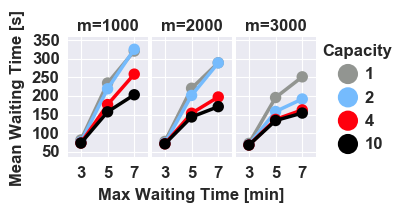
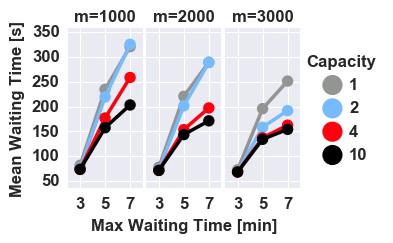
Is this better?

diff --git a/scripts/plot_metrics.py b/scripts/plot_metrics.py
@@ -327,7 +327,7 @@ def make_avg_plots(big_d, plot_type):
         min_val = None
         axes = list()
         fig = plt.figure()
-        fig.set_size_inches(3.2, 1.5)
+        fig.set_size_inches(3, 2)
         for i, v in enumerate(iover, start=1):
             plt.subplot(1, len(iover), i)
             plt.subplots_adjust(wspace=0.05)
